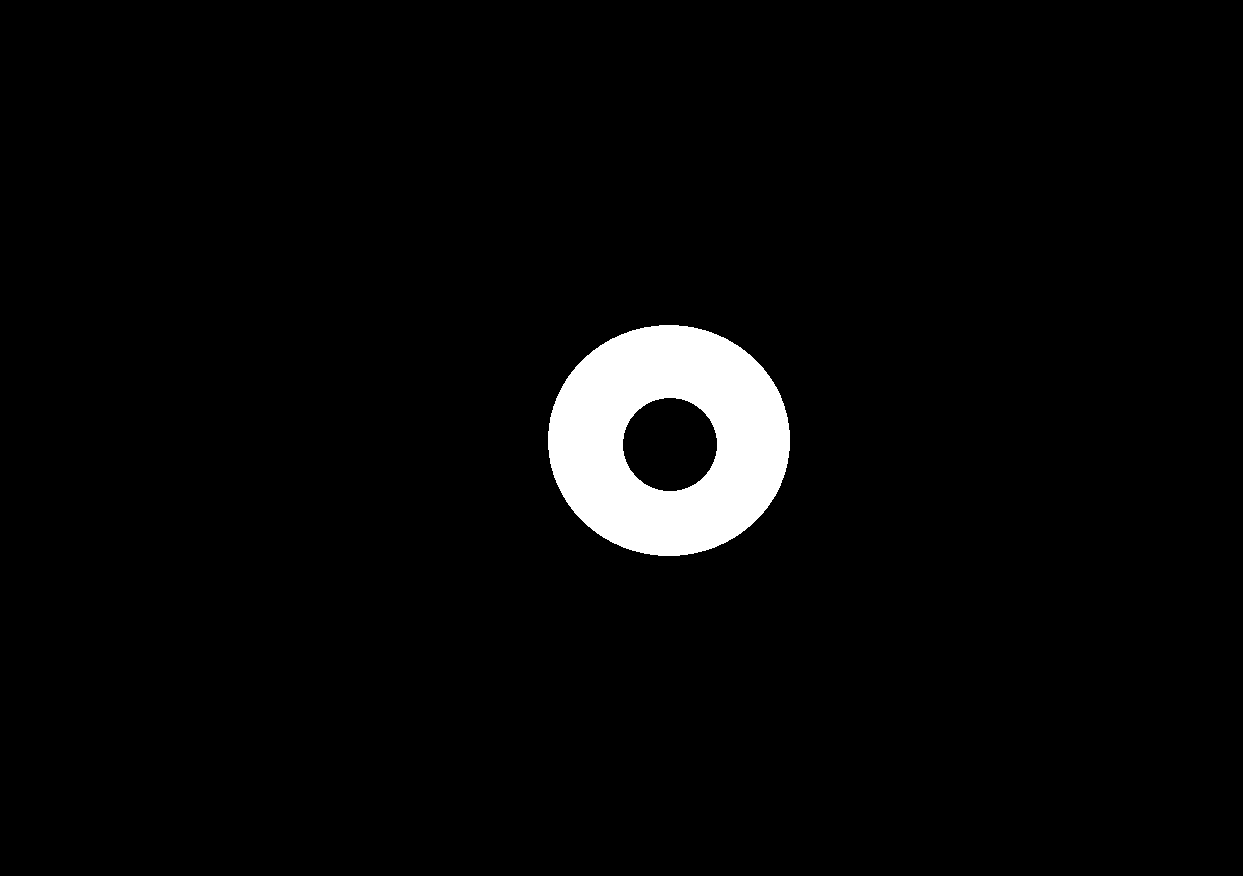
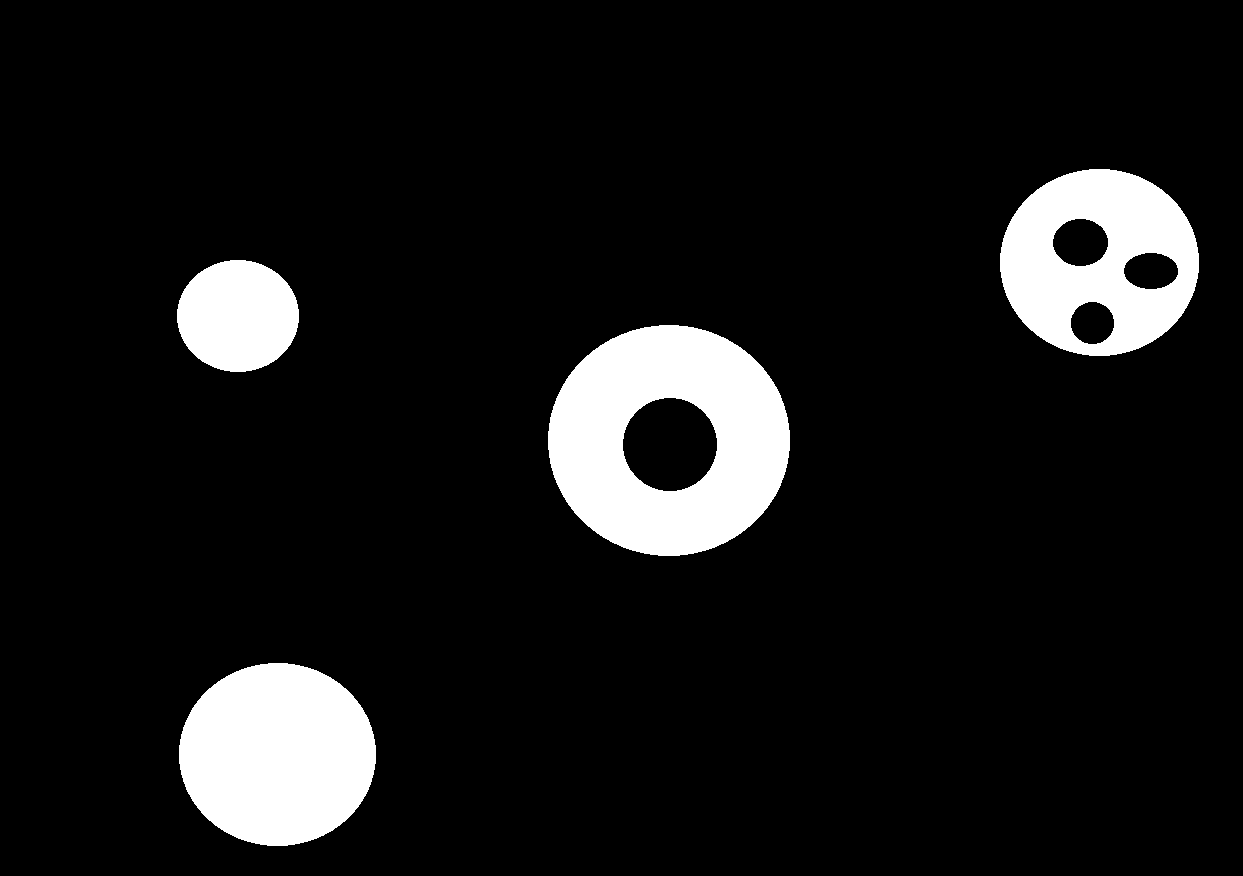
Added tree generation from opencv hier, changed on axis image

Changed region(s): [[0.7949, 0.1849, 0.9783, 0.4315], [0.1223, 0.7397, 0.3057, 0.9863], [0.1223, 0.2774, 0.2446, 0.4315]]

diff --git a/main.py b/main.py
@@ -5,6 +5,7 @@ import cv2 as cv
 from astropy.io import fits
 from scipy import ndimage
 import matplotlib.pyplot as plt
+from anytree import Node, RenderTree
 
 
 #from https://stackoverflow.com/questions/33964913/equivalent-of-polyfit-for-a-2d-polynomial-in-python
@@ -81,6 +82,80 @@ def histogram_img(img):
     #plt.imshow(mean_ish_img)
     #plt.show()
 
+def cvhier2tree(hierarchy, contours):
+    root = Node(name='root', parent=None)
+    H = hierarchy[0]
+
+    cnt_nodes = [None] * len(contours)
+    #hierarchy fields:
+    # 0 = next contour idx
+    # 1 = previous contour idx
+    # 2 = first child idx
+    # 3 = parent idx
+    for i in range(len(H)):
+        if H[i][3] == -1:
+            node_i = Node(str(i), parent=root)
+            cnt_nodes[i] = node_i
+        else:
+            if cnt_nodes[H[i][3]] != None:
+                node_i = Node(str(i), parent=cnt_nodes[H[i][3]])
+            else:
+                node_i = Node(str(i), parent=cnt_nodes[H[i][3]])
+
+
+
+    print(H)
+    print(cnt_nodes)
+    print(RenderTree(root))
+
+
+def get_defocussed_stars(img, debug_imgs=False):
+    binary_img = img > np.std(img) + np.median(img)
+    if debug_imgs:
+        plt.imshow(binary_img)
+        plt.show()
+    countour_img = (binary_img * 1).astype(np.uint8)
+
+    im2, contours, hierarchy = cv.findContours(countour_img, cv.RETR_TREE, cv.CHAIN_APPROX_TC89_L1)
+
+    tree = cvhier2tree(hierarchy,contours)
+
+    approx_contours = []
+    for cnt in contours:
+        approx_contours.append(cv.approxPolyDP(cnt, closed=True, epsilon=0.2))
+
+    contours_one_child_policy = []
+    H = hierarchy[0]
+    for i in range(len(contours)):
+        # is conoutour top level and have at least one child?
+        parent = H[i][3]
+        first_child = H[i][2]
+        if H[i][3] == -1 and H[i][2] >= 0:
+            # there are no other contours at this level
+            # if H[first_child][0] == -1:
+            contours_one_child_policy.append(contours[i])
+
+    if debug_imgs:
+        contour_img = np.zeros((binary_img.shape[0], binary_img.shape[1], 3))
+        for cnt in contours:
+            if cnt.shape[0] >= 5:
+                cv.drawContours(contour_img, [cnt], 0, (255, 0, 0), 1)
+                elip = cv.fitEllipse(cnt)
+                cv.ellipse(contour_img, elip, (0, 255, 0), 2)
+
+        one_child_img = np.zeros((binary_img.shape[0], binary_img.shape[1], 3))
+        for cnt in contours_one_child_policy:
+            if cnt.shape[0] >= 5:
+                cv.drawContours(one_child_img, [cnt], 0, (255, 0, 0), 1)
+                elip = cv.fitEllipse(cnt)
+                cv.ellipse(one_child_img, elip, (0, 255, 0), 2)
+
+        fig, ax = plt.subplots(1, 2)
+        fig.suptitle('Star blob detection')
+        ax[0].imshow(contour_img)
+        ax[1].imshow(one_child_img)
+        plt.show()
+
 
 def analyse_off_axis(img, debug_imgs=False):
     img = img.astype('single')
@@ -107,84 +182,16 @@ def analyse_off_axis(img, debug_imgs=False):
         ax[1, 1].imshow(mat_corrected)
         plt.show()
 
-    binary_img = mat_corrected >  np.std(mat_corrected) + np.median(mat_corrected)
-    plt.imshow(binary_img)
-    plt.show()
-    countour_img = (binary_img*1).astype(np.uint8)
 
-    im2, contours, hierarchy = cv.findContours(countour_img, cv.RETR_TREE, cv.CHAIN_APPROX_TC89_L1)
-
-    approx_contours = []
-    for cnt in contours:
-        approx_contours.append(cv.approxPolyDP(cnt, closed=True, epsilon=0.2))
-
-    contours_one_child_policy = []
-    H = hierarchy[0]
-    for i in range(len(contours)):
-        #is conoutour top level and have at least one child?
-        parent = H[i][3]
-        first_child = H[i][2]
-        if H[i][3] == -1 and H[i][2] >= 0:
-            #there are no other contours at this level
-            #if H[first_child][0] == -1:
-            contours_one_child_policy.append(contours[i])
-
-
-
-
-    if debug_imgs:
-        contour_img = np.zeros((binary_img.shape[0], binary_img.shape[1], 3))
-        for cnt in contours:
-            if cnt.shape[0] >= 5:
-                cv.drawContours(contour_img, [cnt], 0, (255,0,0), 1)
-                elip = cv.fitEllipse(cnt)
-                cv.ellipse(contour_img,elip,(0,255,0),2)
-
-        one_child_img = np.zeros((binary_img.shape[0], binary_img.shape[1], 3))
-        for cnt in contours_one_child_policy:
-            if cnt.shape[0] >= 5:
-                cv.drawContours(one_child_img, [cnt], 0, (255,0,0), 1)
-                elip = cv.fitEllipse(cnt)
-                cv.ellipse(one_child_img, elip, (0, 255, 0), 2)
-
-
-
-        fig, ax = plt.subplots(1, 2)
-        fig.suptitle('Star blob detection')
-        ax[0].imshow(contour_img)
-        ax[1].imshow(one_child_img)
-        plt.show()
 
 def analyse_on_axis(img, debug_imgs=False):
-    binary_img = img > np.std(img) + np.median(img)
-    plt.imshow(binary_img)
-    plt.show()
-    countour_img = (binary_img * 1).astype(np.uint8)
-
-    im2, contours, hierarchy = cv.findContours(countour_img, cv.RETR_TREE, cv.CHAIN_APPROX_SIMPLE)
-
-    convex_contours = []
-    for cnt in contours:
-        if cv.isContourConvex(cnt):
-            convex_contours.append(cnt)
-
-    detected_stars = np.zeros(img.shape, dtype=np.uint8)
-    print(len(convex_contours))
-    for cnt in convex_contours:
-        cv.drawContours(detected_stars, [cnt], 0, 255, 3)
-
-    if debug_imgs:
-        fig, ax = plt.subplots(1, 3)
-        fig.suptitle('Star blob detection')
-        ax[0].imshow(img)
-        ax[1].imshow(detected_stars)
-        plt.show()
+    get_defocussed_stars(img, debug_imgs=debug_imgs)
 
 
 
 def main():
     on_axis = cv.imread('C:/Users/alist/OneDrive/Development/Colli-M8/on-axis-test-img.png', cv.IMREAD_GRAYSCALE)
-    #analyse_on_axis(on_axis)
+    analyse_on_axis(on_axis, debug_imgs=True)
 
     img = fits.open("C:/NINA_images/2020-02-28_collimation/LIGHT/2020-02-29_01-36-59_Lum_-5.80_20.00s_0002.fits")
     mat = img[0].data
